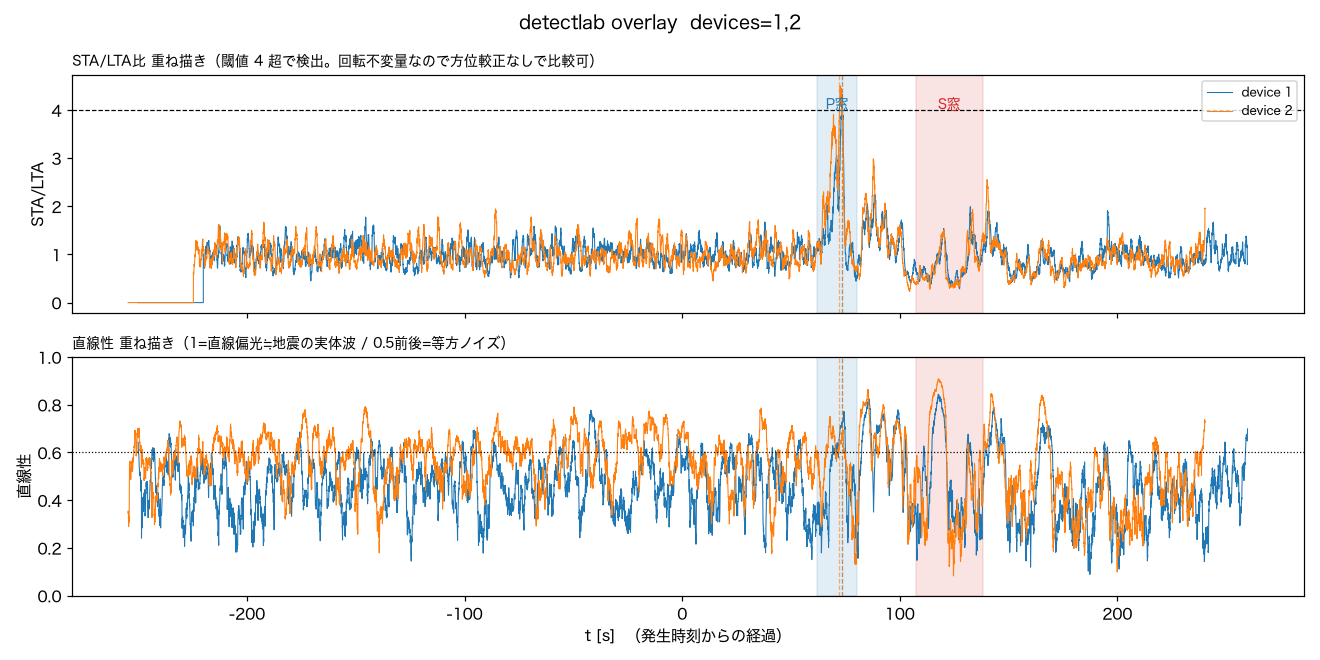
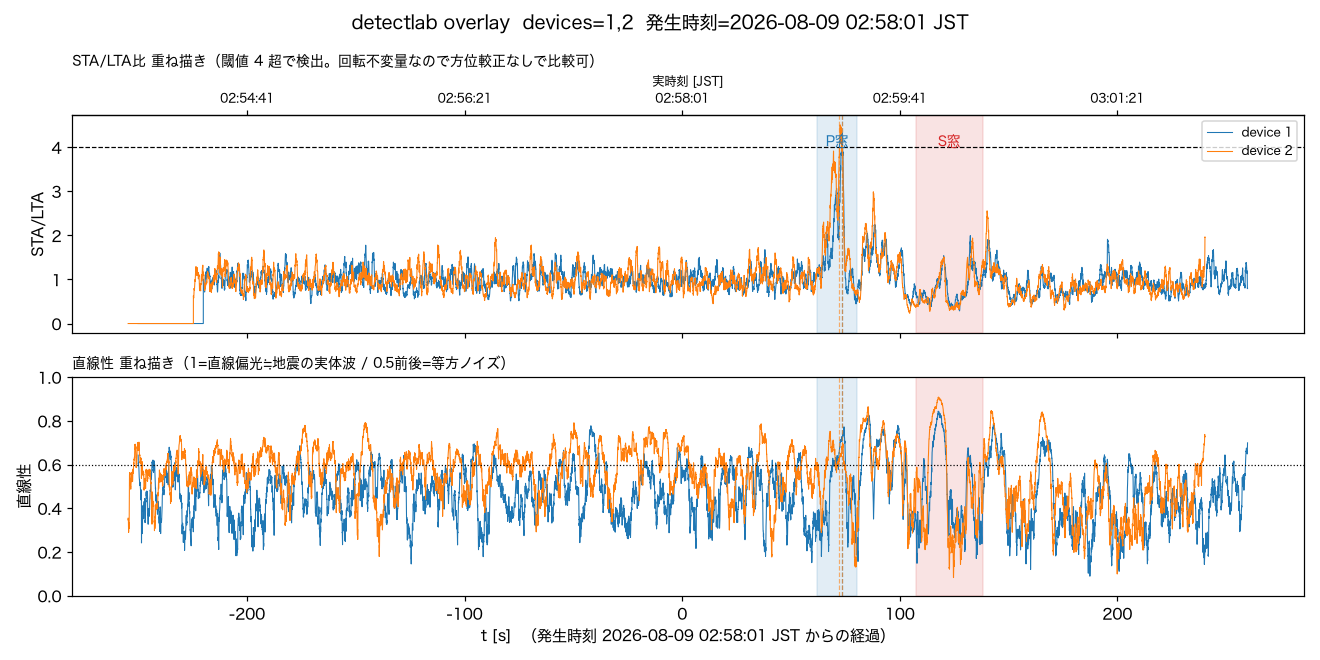
コーダの減衰波形を見落としていた判定を訂正し、確定報の数値・重ね描き図の実時刻表示を直す
ユーザー指摘を受けてバンドパス後の3軸合成RMSを直接見たところ、STA/LTA比だけでは
拾えていなかった「P波到達と同時に立ち上がり160-180秒でなだらかに減衰する」波形が
両機に共通してあることが分かった。S窓後の振れを単体プロットのスケール錯覚と
片付けた前回の結論を訂正し、地震由来と言える区間をP波山だけからコーダ込みに広げた。
保存区間が尻尾で約35秒切れていたため promote_event.py を --post 200 で同一onsetのまま
再実行して延長し、DynamoDBのnoteも訂正後の内容に更新した。

副産物として、確定報(tenki.jp)の数値(M5.6・深さ約40km・震度4)をログに反映し、
detectlab.pyの重ね描き図(plot_overlay)にx軸ラベル・上軸目盛りとして実時刻を
焼き込んだ（単体の画像だけでも時刻が読み取れるように）。pytest(tools/tests)確認済み。

Claude-Session: https://claude.ai/code/session_011hSUYyKdng1AnRgR3EBTfM
Agent-Session: Claude Code on 29-er: 8d595a2f-bb8b-4c8b-be94-96df3b92aa29

diff --git a/tools/detectlab.py b/tools/detectlab.py
@@ -383,6 +383,18 @@ def plot_overlay(per_device, thr, arrivals, ref_us, out, show):
             for a in axs:
                 a.axvline(ot, color=color, lw=0.8, alpha=0.6, ls="--")
 
+    def sec_to_clock(x):
+        return [datetime.fromtimestamp(ref_us / 1e6 + v, JST) for v in x]
+
+    top = axs[0].secondary_xaxis(
+        "top",
+        functions=(lambda s: s, lambda s: s),
+    )
+    top.set_xticks(axs[0].get_xticks())
+    top.set_xticklabels([dt.strftime("%H:%M:%S") for dt in sec_to_clock(axs[0].get_xticks())],
+                        fontsize=8)
+    top.set_xlabel("実時刻 [JST]", fontsize=8)
+
     axs[0].axhline(thr, ls="--", color="k", lw=0.8)
     axs[0].set_ylabel("STA/LTA")
     axs[0].set_title(f"STA/LTA比 重ね描き（閾値 {thr:g} 超で検出。回転不変量なので方位較正なしで比較可）",
@@ -394,7 +406,9 @@ def plot_overlay(per_device, thr, arrivals, ref_us, out, show):
     axs[1].set_ylabel("直線性")
     axs[1].set_title("直線性 重ね描き（1=直線偏光≒地震の実体波 / 0.5前後=等方ノイズ）",
                      fontsize=9, loc="left")
-    xlabel = "t [s]  " + ("（発生時刻からの経過）" if arrivals else "（先頭デバイス窓頭からの経過）")
+    ref_dt = datetime.fromtimestamp(ref_us / 1e6, JST)
+    ref_note = "発生時刻" if arrivals else "先頭デバイス窓頭"
+    xlabel = f"t [s]  （{ref_note} {ref_dt:%Y-%m-%d %H:%M:%S} JST からの経過）"
     axs[1].set_xlabel(xlabel)
 
     for label, e_us, l_us, color in arrivals:
@@ -406,7 +420,8 @@ def plot_overlay(per_device, thr, arrivals, ref_us, out, show):
                         color=color, ha="center", fontsize=9)
 
     devices_note = ",".join(str(d) for d, *_ in per_device)
-    fig.suptitle(f"detectlab overlay  devices={devices_note}")
+    fig.suptitle(f"detectlab overlay  devices={devices_note}  "
+                 f"{ref_note}={ref_dt:%Y-%m-%d %H:%M:%S} JST")
     fig.tight_layout()
     if out:
         fig.savefig(out, dpi=110)

diff --git a/docs/log/2026-08-09-iwateoki-m4.9-post-hoc-detection.md b/docs/log/2026-08-09-iwateoki-m4.9-post-hoc-detection.md
@@ -3,6 +3,12 @@
 気象庁の地震情報（第1報 02:58:11発表、2026/08/09 02:58:01発生、震央N40.2/E142.5
 岩手県沖、深さ10km、M4.9、震度3）を受けて、本機が拾えていたか確認した。
 
+**確定報では数値が変わっている**（[tenki.jp](https://earthquake.tenki.jp/lite/bousai/earthquake/detail/2026/08/09/2026-08-09-02-58-05.html)
+03:02発表: N40.1/E142.4、**深さ約40km**、**M5.6**、**最大震度4**（普代村）。第1報の
+震源直後速報は深さ・Mが暫定でよく動く）。震央緯度経度はほぼ同じで、震央距離483kmに
+対し深さ10km→40kmでは震源距離が483.1km→484.7kmしか変わらないため、下記のP/S波
+到達窓予測・解析結果への影響は無視できる。震源緒元は第1報のまま解析している。
+
 ## 確認したこと
 
 - `/events?all=1` に地震発生後の新規イベントは無し。両機とも直前の最新は
@@ -41,8 +47,13 @@ t+110〜160s）にずれて現れ、これも2台で一致している。
 （前回の茨城県北部M3.8ほど直線性が0.8-0.9まで跳ねてはいない）。ただし重ね描き図の
 STA/LTAパネルでは、**独立クロックの2台が、幅20秒弱しかない予測P窓の中でほぼ同時刻に
 閾値超えのピークを作っている**。483kmという距離でこの一致は偶然とは考えにくい。
-`docs/noise.md`の「検出できた／できなかった」の過去3例と同水準の**probable detection**
-と判断した。
+
+さらに、後述（§S窓後も続く減衰波形の確認）の通り**バンドパス振幅そのものを見ると
+P窓到達と同時に立ち上がり約160〜180秒かけてなだらかに減衰する、2台に共通する
+波形が確認できた**。STA/LTA比は急な変化しか拾わないため単発の山にしか見えないが、
+実際には教科書通りの実体波→コーダの減衰形をしている。これは前回の茨城県北部M3.8
+（STA/LTAの山のみ）より踏み込んだ根拠で、`docs/noise.md`の「検出できた／できなかった」
+の過去3例の中でも最も明瞭な**probable detection**と判断した。
 
 ## 結論
 
@@ -77,13 +88,68 @@ python tools/detectlab.py --at "2026-08-09 03:01:30" \
 上がっておらず（バンドパス後も一瞬で終わる単発波形）、STA窓の平滑化に埋もれる
 程度に短い＝地震の連続的な揺れとは性質が違う突発ノイズと判断した。
 
-結論として、この記録の中で地震由来と言えそうなのは02:59:13〜14（P波窓内）の
-STA/LTA山だけで、それ以降の目立つ振れはdevice1固有の環境ノイズだった。
+03:07台の2本については、この結論のまま——地震由来ではなくdevice1固有の環境ノイズ。
+
+![03:07台スパイクの重ね描き（device1のみ・device2は無反応）](img/2026-08-09-iwateoki-m4.9-707spike-overlay.png)
+
+## S窓後も続く減衰波形の確認（訂正）
+
+上の確認では「device2の図でS窓後(t≈150-450s)も波が続いて見えるのは、単体プロットの
+y軸スケールが小さいせいで背景ノイズが目立つだけ」と判断し、`--device 1 2`のSTA/LTA・
+直線性の重ね描きがベースラインに戻っていることを根拠にした。**これは誤りだった**。
+
+STA/LTA比は「短期/長期エネルギー比」なので、急な立ち上がりには反応するが、
+**なだらかに減衰し続ける信号は長期平均(LTA)自体が追従してしまい、比率が早々に
+ベースラインへ戻る**。振幅の変化そのものを見落とす形になっていた。バンドパス後の
+3軸合成RMSを20秒窓で直接計算し直したところ、話が違った。
+
+```python
+# tools/detectlab.py の load_s3_window()/bandpass() を再利用し、
+# 1-10Hzバンドパス後の3軸合成RMSを20秒窓で計算
+import sys; sys.path.insert(0, "tools")
+from detectlab import load_s3_window, bandpass, resolve_bucket, at_to_us
+import numpy as np
+
+end_us = int(at_to_us("2026-08-09 03:02:00") + 8*60*1e6)
+data, start_us, fs = load_s3_window(resolve_bucket(None), end_us, 16*60.0, device_id)
+vec = np.sqrt((bandpass(data, fs, 1.0, 10.0) ** 2).sum(axis=1))
+n = int(20 * fs)
+rms = [np.sqrt(np.mean(vec[i:i+n] ** 2)) for i in range(0, len(vec) - n, n)]
+```
+
+| t [s] (発生時刻から) | 実時刻 | device1 RMS | device2 RMS |
+|---|---|---|---|
+| 30 | 02:58:30 | 0.125（平常） | 0.093（平常） |
+| 70 | 02:59:10 | 0.216 | 0.181 |
+| 90 | 02:59:30 | 0.224（ピーク） | 0.216（ピーク） |
+| 130 | 03:00:10 | 0.198 | 0.165 |
+| 170 | 03:00:50 | 0.134 | 0.120 |
+| 210 | 03:01:30 | 0.131 | 0.105 |
+| 230 | 03:01:50 | 0.128（平常に復帰） | 0.097（平常に復帰） |
+
+![振幅RMSの減衰](img/2026-08-09-iwateoki-m4.9-rms-decay.png)
+
+**P波到達（t≈65-70s）と同時に振幅が平常の約2〜2.5倍へ立ち上がり、約160〜180秒
+かけてなだらかに減衰しながら平常値へ戻る**——実体波からコーダへの教科書通りの形が、
+device1・device2で時刻・形状ともほぼ一致していた。device1固有の環境ノイズ
+（t≈530s・570sの単発スパイク、device2は無反応）とは減衰の仕方が明確に違う
+（あちらは瞬間的に立って瞬間的に戻る、こちらは分単位でなだらかに減衰する）。
+
+結論として、この記録で地震由来と言えるのは**P波到達からコーダ減衰まで含む
+t≈65-230s（02:59:06〜03:01:50頃）の一連の振れ**であり、STA/LTA山だけを見た当初の
+判断より裾野が広い。02:59:13〜14のSTA/LTA山はその立ち上がり直後の急峻な部分を
+拾ったに過ぎない。03:07台の2本は引き続きdevice1固有の環境ノイズ（相関なし・
+減衰の形も違う）と判断する。
 
 ## 手動イベント化
 
 raw の保持期限(90日)で消える前に、`tools/promote_event.py`で両機とも永久保存した
 （onset=02:59:14 JST、保存区間-60s〜+120s）。
+
+コーダ減衰の確認後、+120sではt≈230s(コーダが平常値に戻るあたり)まで届いておらず
+尻尾が約35秒切れていたと分かったため、`--post 200`（-60s〜+200s、実時刻03:02:34まで）
+で同じonsetのまま再実行した。`event_id`はonset由来の固定値なので同じidに上書きされ、
+波形バッチは7→10（device1）・14→19（device2）に増えている。
 
 - device1: `0001-59540398`（震度0・I=-0.1・peak=0.388gal）
 - device2: `0002-59540398`（震度0・I=-0.2・peak=0.336gal）

diff --git a/docs/progress.md b/docs/progress.md
@@ -5,7 +5,7 @@
 
 | 日付 | 何が決まったか | 詳細 |
 |---|---|---|
-| 2026-08-09 | **岩手県沖M4.9（震央距離483km）を正式イベントとしては逃したが、事後解析では拾えていたと確認した（実装は無し）。** `/events`に該当時刻の新規イベントは無く、`firmware`のリアルタイム閾値には未達。ただしS3生波形を`detectlab.py`で事後解析すると、device1/device2とも予測P波到達窓内にSTA/LTA山（両機とも閾値4を超過、4.32/4.50）が同時刻に一致。振幅SNR・固定窓の直線性は単独では「要検討」止まりだが、独立クロック2台が幅20秒弱の予測窓内で一致したこと自体を根拠に、`docs/noise.md`の過去3例と同水準の**probable detection**と判断。`tools/promote_event.py`で両機とも永久保存（`0001-59540398`/`0002-59540398`）し、同ファイルの「検出できた／できなかった」に事例を追記した | [log/2026-08-09-iwateoki-m4.9-post-hoc-detection.md](log/2026-08-09-iwateoki-m4.9-post-hoc-detection.md) |
+| 2026-08-09 | **岩手県沖M5.6(確定報。第1報M4.9・震央距離483km)を正式イベントとしては逃したが、事後解析では拾えていたと確認した（実装は無し）。** `/events`に該当時刻の新規イベントは無く、`firmware`のリアルタイム閾値には未達。S3生波形を`detectlab.py`で事後解析すると予測P波到達窓内にSTA/LTA山が両機で一致(4.32/4.50)。さらにバンドパス後の3軸合成RMSを直接見たところ、**P波到達と同時に振幅が2〜2.5倍へ立ち上がり約160〜180秒かけてなだらかに減衰する、両機に共通する波形**が確認できた（STA/LTA比だけでは急な立ち上がりしか拾えず、なだらかな減衰は見落としていた＝レビューで指摘され訂正）。`docs/noise.md`の過去3例の中でも最も明瞭な**probable detection**と判断。`tools/promote_event.py`で両機とも永久保存（`0001-59540398`/`0002-59540398`）し、同ファイルの「検出できた／できなかった」に事例を追記。副産物として`detectlab.py`の重ね描き図に実時刻の目盛りを焼き込んだ | [log/2026-08-09-iwateoki-m4.9-post-hoc-detection.md](log/2026-08-09-iwateoki-m4.9-post-hoc-detection.md) |
 | 2026-08-09 | **直前の再起動理由(esp_reset_reason)を送信・記録・表示するようにした。** device1/device2の予期しない再起動をWDT panic説とヒープ枯渇説のどちらか実機データで切り分けるための可観測性。firmwareが起動時に`X-Namz-Reset-Reason`ヘッダで送り、ingestが`boot_epoch_us`と同じUpdateItemに相乗りで記録（追加書き込み無し）、api/dashboardの「稼働時間」の隣に表示。実装中、値をコピーする`kExtraRequestHeaderValues[]`の静的初期化の仕組み上「setup()で`const char*`変数を差し替える」案では反映されないバグに気づき、固定バッファへコピーする方式に直した。sensortest環境のビルドを一瞬壊しかけた(`#ifndef NAMZ_SENSOR_TEST`漏れ)のも`pio run`で発見して修正。pio run全4env・test/run.sh・pytest(106件)確認済み。terraform apply・実機OTA配信はまだ | [log/2026-08-09-reset-reason-telemetry.md](log/2026-08-09-reset-reason-telemetry.md) |
 | 2026-08-09 | **batch-uplinkのヘッダ配列(watchResponseHeaders/extraRequestHeaderNames+Values)をnullptr終端方式に作り直し、本数上限(kMaxWatchedHeaders/kMaxExtraRequestHeaders=4)を撤去してv2.0.0を切った。** device2の再起動調査でreset_reasonヘッダを足そうとしたら4/4使い切っていると判明し、上限の由来を調べたところハードウェア制約ではなく「対称設計」で揃えただけの数字と分かった。当初の4→5拡張案(v1.9.0)から、count引数自体を無くすargv方式へ倒し、破壊的変更なのでsemver的にv2.0.0が正しいと訂正した。`extraRequestHeaderValues`は生ポインタのまま維持（コピー所有に変えるとuptime/heapが起動時の値に固定される回帰になるため）。firmware/platformio.ini・terraform/build_lambda.shのpinをv2.0.0へ揃え、main.cppの呼び出し側をnullptr終端に追従。pio run(esp32dev/adxl355)・test/run.sh・pytest(104件)確認済み。Electabuzzはタグpinのため無影響。terraform apply・実機OTA配信はまだ | [log/2026-08-09-uplink-v2.0.0-sentinel-header-arrays.md](log/2026-08-09-uplink-v2.0.0-sentinel-header-arrays.md) |
 | 2026-08-08 | **heapテレメトリをダッシュボードのデバイス詳細ページから軽く見えるようにした。** チャート化(新規API+チャートコード一式)ではなく最新値のテキスト1行+CloudWatchコンソールへの深リンクを選んでもらった。`common/metrics.latest_heap()`で直近10分の最新点を取得し`/devices/<id>`（単体のみ、一覧は対象外）へ追加、terraformに`cloudwatch:GetMetricStatistics`権限を追加。pytest 104件・terraform validate・`node --check`確認。CloudWatchコンソールへの深リンクURL形式はログインセッションが無く実際の描画は未検証。apply/実機確認はまだ | [log/2026-08-08-heap-telemetry-dashboard-glance.md](log/2026-08-08-heap-telemetry-dashboard-glance.md) |

diff --git a/docs/noise.md b/docs/noise.md
@@ -65,12 +65,15 @@
   ベースライン0.4-0.6から0.8-0.9へ同時に跳ねた。振幅SNRは1前後で単独では「微妙」だが、
   2台独立に同タイミング・同特徴（直線偏光）が揃ったため **probable detection**
   （詳細・図: [log/2026-08-08-ibaraki-m3.8-post-hoc-detection.md](log/2026-08-08-ibaraki-m3.8-post-hoc-detection.md)）。
-- **2026-08-09 02:58 岩手県沖 M4.9 深さ10km（震央距離483km）**: リアルタイム閾値未達で
-  正式イベントは立たず。事後解析（3軸・1-10Hz）では device1/device2 とも予測P波到達窓
-  （02:59:02-21）内にSTA/LTAが山（device1=4.32・device2=4.50、両機とも閾値4超過）を
-  同時刻に作った。直線性は固定窓では0.5-0.6台と茨城の事例ほど跳ねなかったが、
-  独立クロック2台が幅20秒弱の予測窓内で一致したこと自体が偶然とは考えにくく
-  **probable detection**（詳細・図: [log/2026-08-09-iwateoki-m4.9-post-hoc-detection.md](log/2026-08-09-iwateoki-m4.9-post-hoc-detection.md)）。
+- **2026-08-09 02:58 岩手県沖 M5.6（確定報。第1報M4.9）深さ約40km（震央距離483km）**:
+  リアルタイム閾値未達で正式イベントは立たず。事後解析（3軸・1-10Hz）では
+  device1/device2 とも予測P波到達窓（02:59:02-21）内にSTA/LTAが山
+  （device1=4.32・device2=4.50、両機とも閾値4超過）を同時刻に作った。さらに
+  バンドパス後の3軸合成RMSを20秒窓で直接見ると、**P波到達と同時に振幅が平常の
+  2〜2.5倍へ立ち上がり約160〜180秒かけてなだらかに減衰する波形**が両機でほぼ
+  同じ形・タイミングで確認でき、実体波からコーダへの教科書通りの減衰と整合した
+  （STA/LTA比だけでは急な立ち上がりしか拾えず、この減衰は見落としていた）。過去3例
+  の中でも最も明瞭な**probable detection**（詳細・図: [log/2026-08-09-iwateoki-m4.9-post-hoc-detection.md](log/2026-08-09-iwateoki-m4.9-post-hoc-detection.md)）。
 
 ## 実務結論
 
